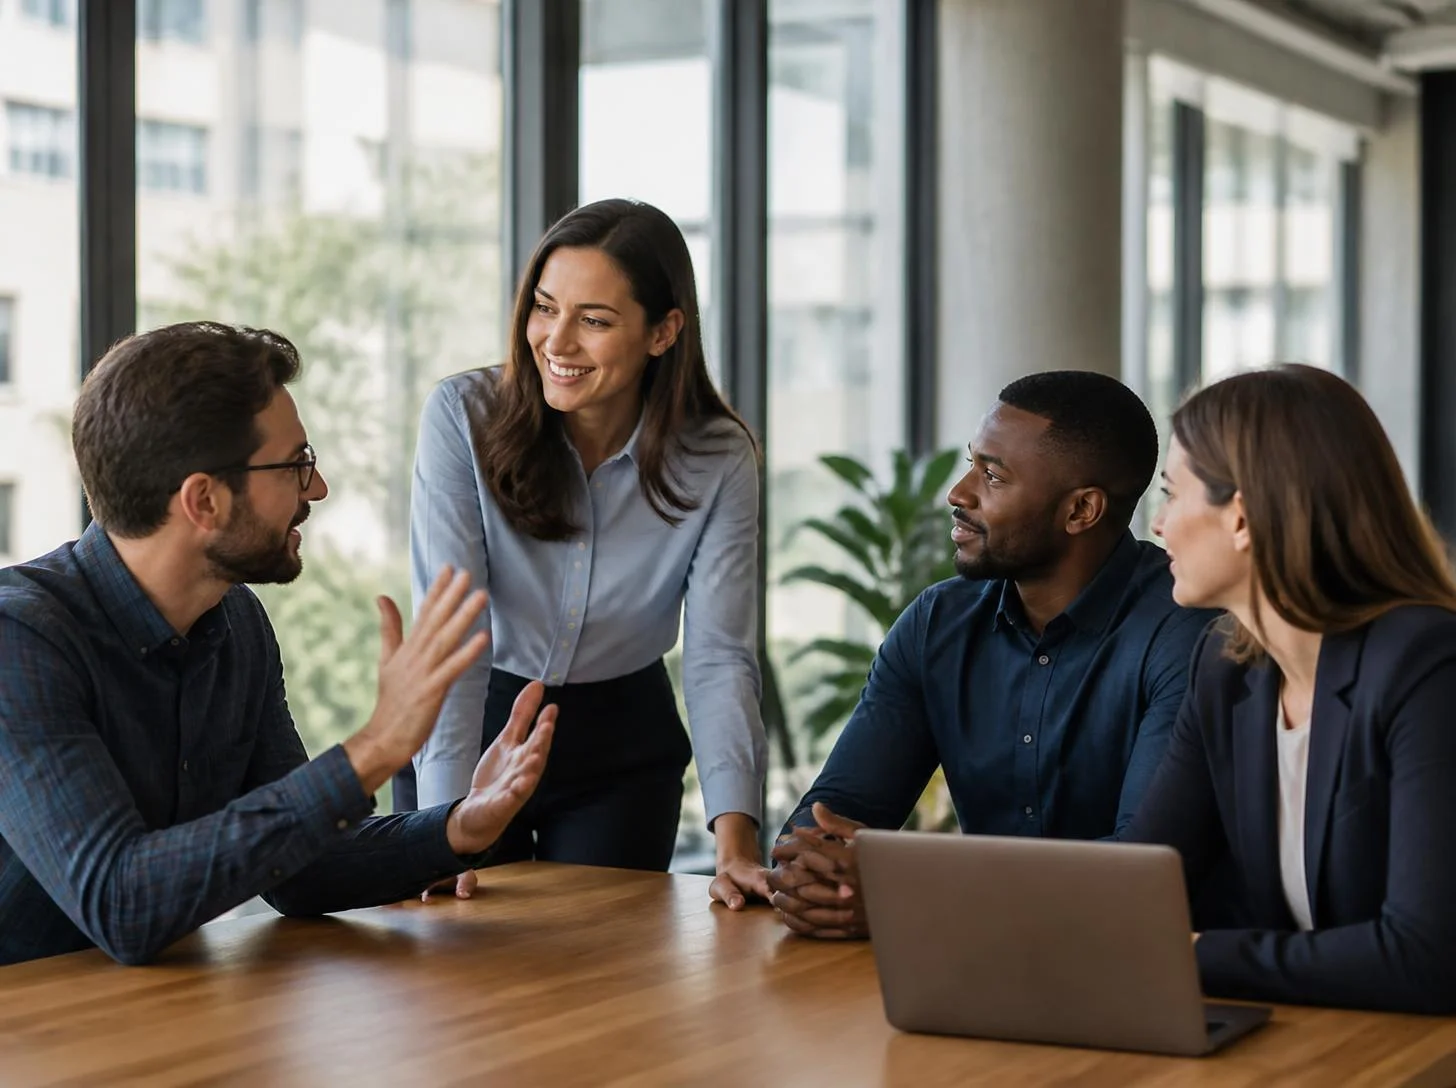
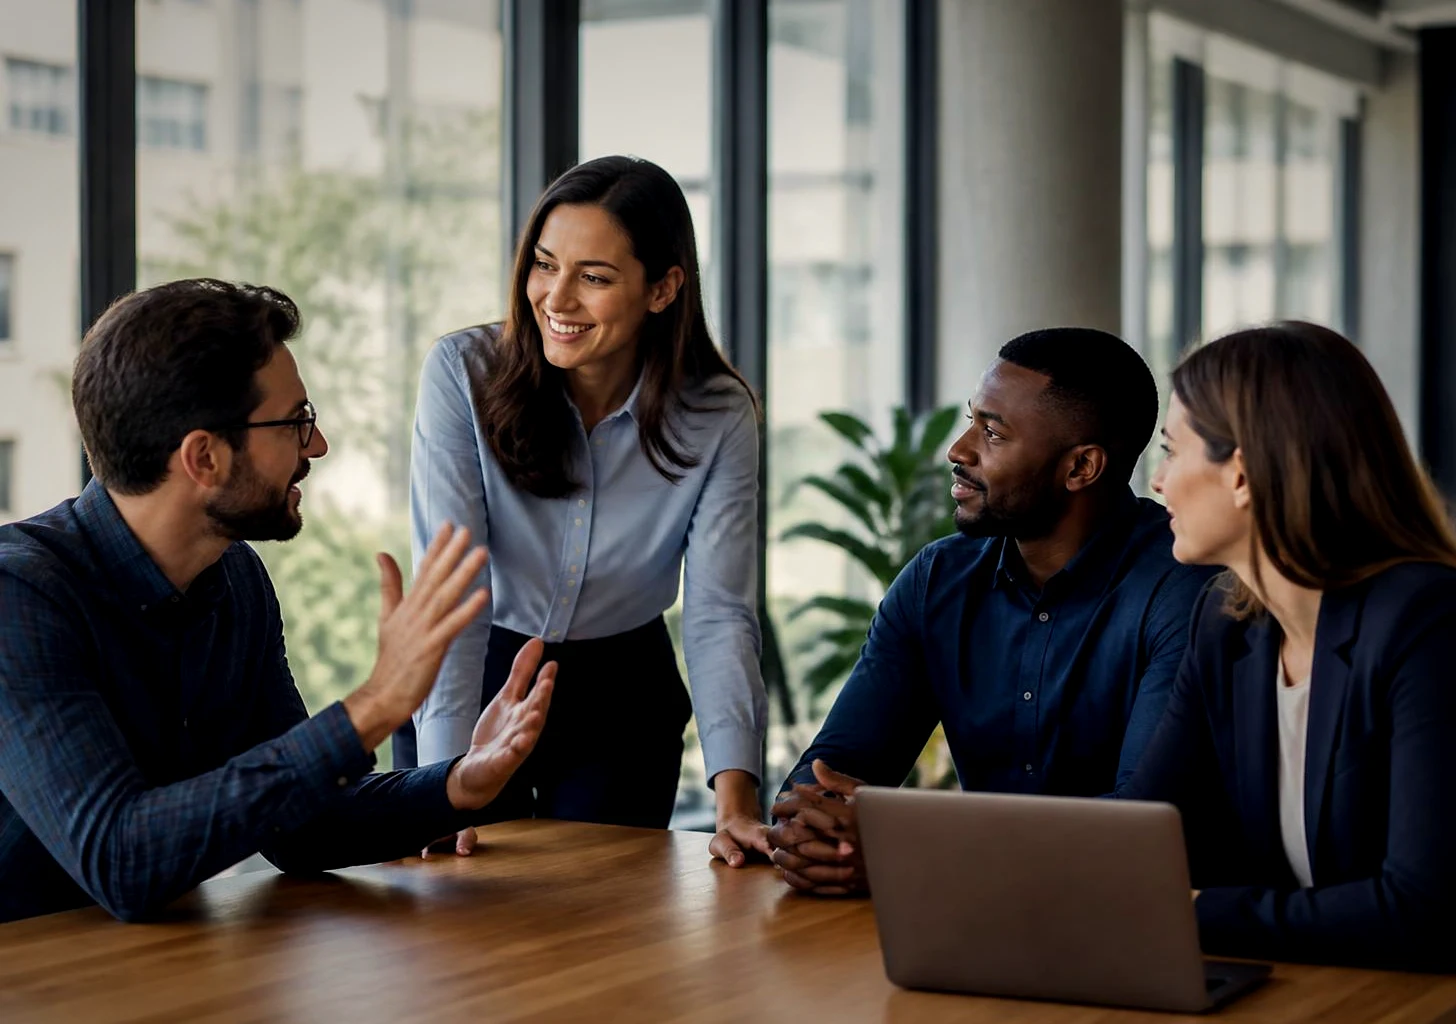
Color-grade the Hero photo instead of relying on a CSS filter
The remaining gap was the photo itself: a flat, evenly-lit stock-feeling
crop with no art direction, versus the reference's moody, intentional
photography. Re-edited the actual source image (contrast curve, warm/
cool split tone on highlights vs. shadows, a vignette that pulls focus
onto the group instead of the flat ceiling line) rather than papering
over it with a thin saturate/contrast CSS filter, and tightened the crop
to remove the dead ceiling strip at the top of the original frame.
Removed the old CSS filter and brand-tint overlay from Hero.vue since
the grading is now baked into the file.

Claude-Session: https://claude.ai/code/session_018q1EWZwAxCd1HMRqihix8A

diff --git a/frontend/app/components/sections/Hero.vue b/frontend/app/components/sections/Hero.vue
@@ -57,20 +57,19 @@ onMounted(() => {
         </div>
 
         <div ref="visualRef" class="relative min-h-[320px] overflow-hidden sm:min-h-[420px] lg:min-h-0">
+          <!-- Grading (contrast curve, warm/cool split tone, vignette) is
+               baked into the file itself from a proper edit of the source
+               photo, not a CSS filter layered on top of a flat crop. The
+               crop is also tighter than the original, removing the flat
+               ceiling strip that was visible along the top of the frame. -->
           <img
             src="/images/hero-team.webp"
             alt="A team discussing business operations around a table"
-            class="h-full w-full object-cover [filter:saturate(1.08)_contrast(1.05)]"
+            class="h-full w-full object-cover"
             width="1456"
-            height="1088"
+            height="1024"
             fetchpriority="high"
           >
-          <!-- A soft, directional tint grades the photo to the brand
-               palette (the way real photography on premium sites is
-               always color-matched to the rest of the page) rather than
-               leaving it an unedited raw crop. Subtle and tied to the
-               image itself, not a decorative shape floating over it. -->
-          <div class="pointer-events-none absolute inset-0 bg-gradient-to-br from-brand-900/15 via-transparent to-transparent mix-blend-multiply" aria-hidden="true" />
         </div>
       </div>
     </PageContainer>
